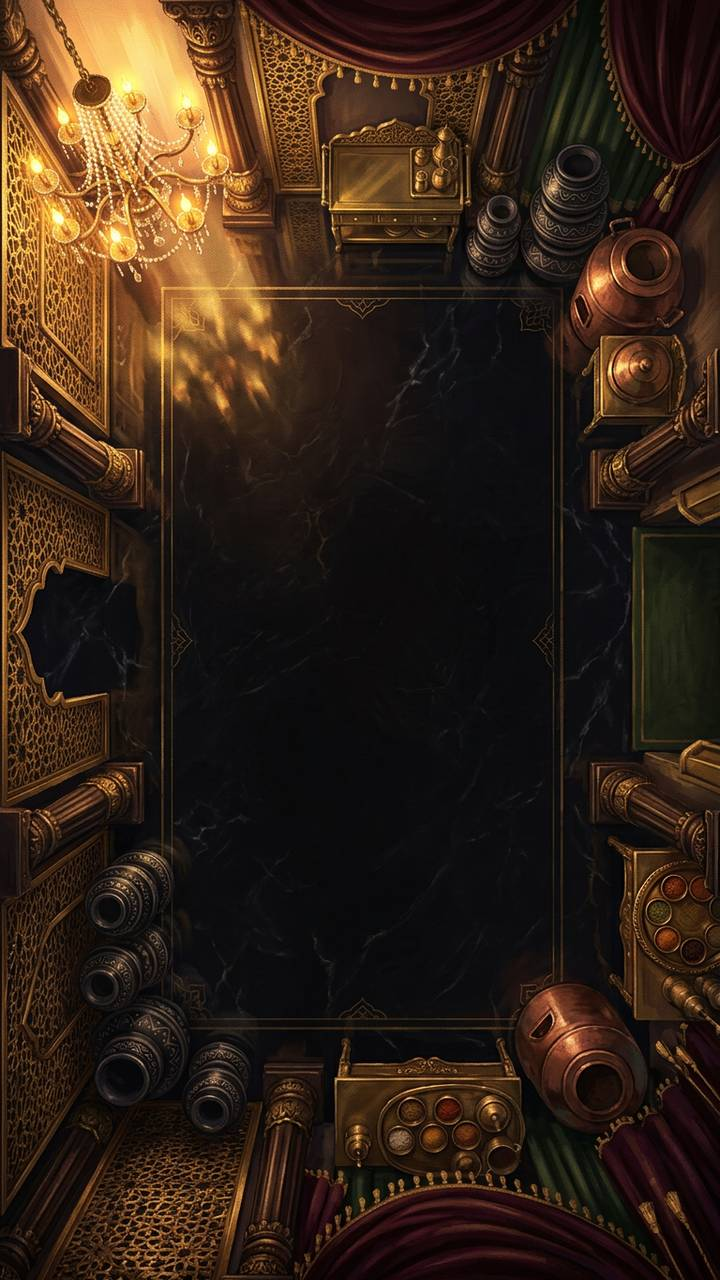
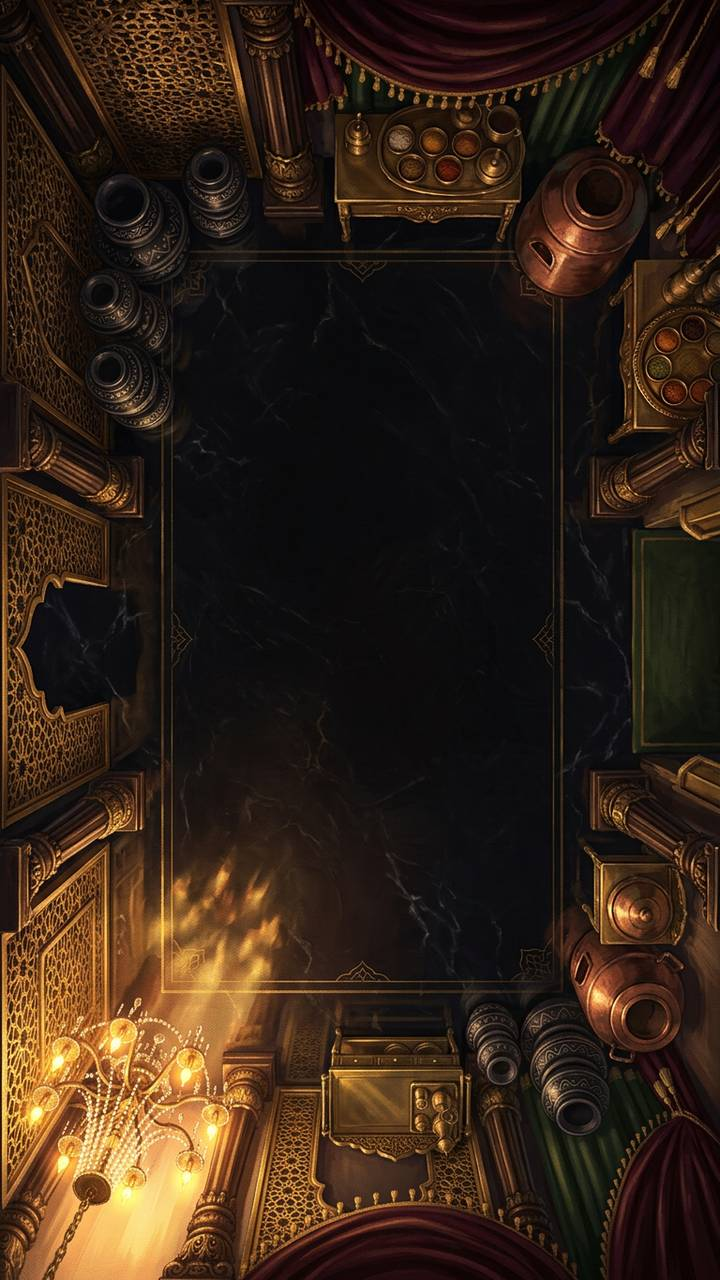
Block 9 ships vertically flipped
The belt enters top-left and exits bottom-right, but the generated Overtime
scene put the serving table at the top and the spice station at the bottom --
dishes arriving where they should be served and leaving where they should be
prepped. Flipping puts spices at the entry and the serving pass at the exit.

Re-derived from the retained take frame with the flip applied rather than
flipping the shipped JPEG, so the image is encoded once instead of twice.
721,380 bytes at q70, still inside budget.

The cost was measured before the decision, not discovered after: a flip puts
the chandelier at the bottom and runs the lighting gradient opposite to the
other eight blocks. Regenerating from the retained prompt and seed was
offered and declined -- at board scale, under the belt and towers, the
chandelier reads as a corner fixture. Recorded in §7 so nobody corrects it
later as a bug.

Worth noting for any future backdrop work: all nine were generated before
the generator was told where the belt enters and exits. Block 9 is simply
where that became visible, being the only scene with explicit entry and exit
furniture.

diff --git a/Ramu - The Chef/docs/LevelBlocks.md b/Ramu - The Chef/docs/LevelBlocks.md
@@ -307,6 +307,10 @@ stanza plus a per-block theme clause. Sources and full prompts are retained in t
 faint belt/pad-shaped ghost outlines, fixed by negative-prompting them).
 Verified: **117.6–119.5 KB each, 1,095,341 B for the nine.**
 
+🔒 **Block 9 ships VERTICALLY FLIPPED, decided Sep 11 2026.** The belt enters top-left and exits bottom-right, but the generated Overtime scene put the **serving table at the top and the spice station at the bottom** — dishes arriving where they should be served and leaving where they should be prepped. The flip puts spices at the entry and the serving pass at the exit. ⚠ **Known and accepted cost:** the chandelier ends up at the bottom and the lighting gradient runs opposite to the other eight blocks. Regenerating from the retained prompt was offered and declined; at board scale, beneath the belt and towers, the chandelier reads as a corner fixture. **Do not 'correct' this later.** Re-derived from `bg-block-9-take1.png` with the flip applied so the JPEG is encoded once, not twice.
+
+➕ **The general point, for any future backdrop work:** all nine were generated before the generator was told where the belt enters and exits. Block 9 is only where it became visible, being the one scene with explicit entry/exit furniture.
+
 ✅ **The composition brief held** — low contrast through the belt corridor, detail at
 the edges. Measured greyscale stdev, centre band vs left edge, is lower in **all nine**
 (block 3: 21.2 vs 51.8; block 9: 33.3 vs 65.8).

diff --git a/Ramu - The Chef/docs/Implementation Handover Record.md b/Ramu - The Chef/docs/Implementation Handover Record.md
@@ -786,9 +786,16 @@ polish round returning and being verified. **Freeze: end of Sep 13.**
 
 #### For the art agent
 
-| # | Task |
-|---|---|
-| 4 | **Regenerate block 9's backdrop** with the spice station at **top** (belt entry) and the serving pass at **bottom** (belt exit) — currently reversed. ⚠ **Do NOT flip the existing image**: tested, and it puts the chandelier at the bottom hanging upward and inverts the lighting gradient against all eight other blocks. Amend the retained per-block theme clause, same `--seed 4471`, same pipeline. |
+✅ **Nothing — block 9 is already done.** Entry/exit were reversed (dishes arrived at the
+serving table and left at the spices). 🔒 **The user chose a vertical flip over
+regeneration, Sep 11**, and it shipped that way: re-derived from the retained
+`bg-block-9-take1.png` with the flip applied, so the JPEG is encoded once rather than
+twice (720×1280, 121,380 B, q70).
+
+⚠ **The trade-off was measured and accepted, not missed.** A flip puts the chandelier
+at the bottom and inverts the lighting gradient against the other eight blocks. In
+isolation that reads wrong; at board scale, under the belt and towers, it reads as a
+corner light fixture. Recorded so nobody "fixes" it later as a bug.
 
 #### 🚫 Deliberately NOT in this round
 
